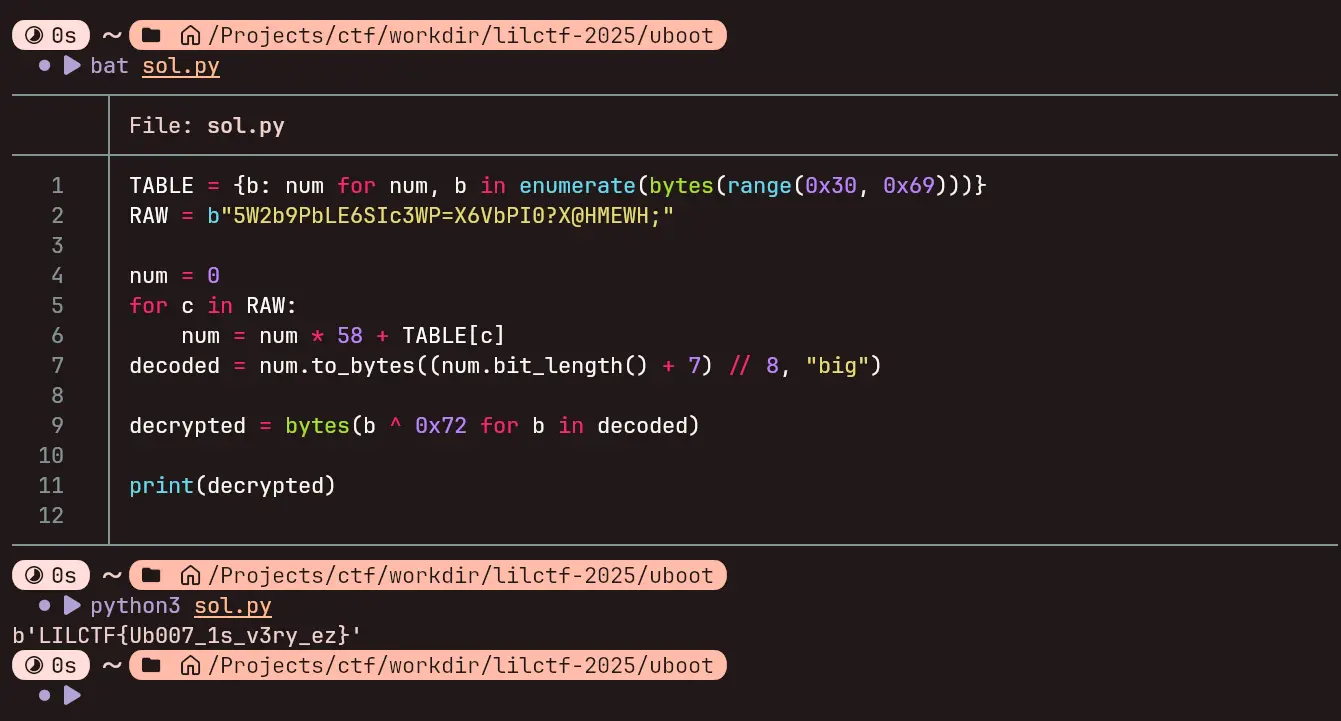
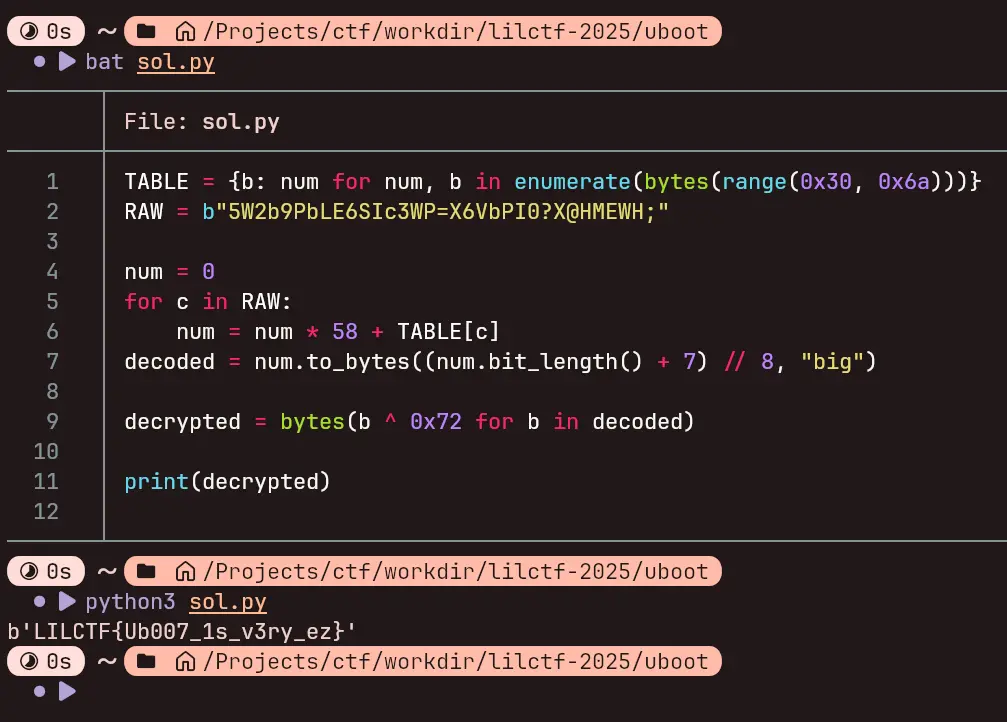
fix: improper code

diff --git a/source/_posts/LilCTF-2025-Writeup.md b/source/_posts/LilCTF-2025-Writeup.md
@@ -1211,7 +1211,7 @@ make CROSS_COMPILE=arm-none-eabi- -j$(nproc)
 综合上面分析，可以得出加密过程为: `XOR 0x72 -> Base58-like (Table: 0x30-0x6a)`。
 
 ```python
-TABLE = {b: num for num, b in enumerate(bytes(range(0x30, 0x69)))}
+TABLE = {b: num for num, b in enumerate(bytes(range(0x30, 0x6a)))}
 RAW = b"5W2b9PbLE6SIc3WP=X6VbPI0?X@HMEWH;"
 
 num = 0
